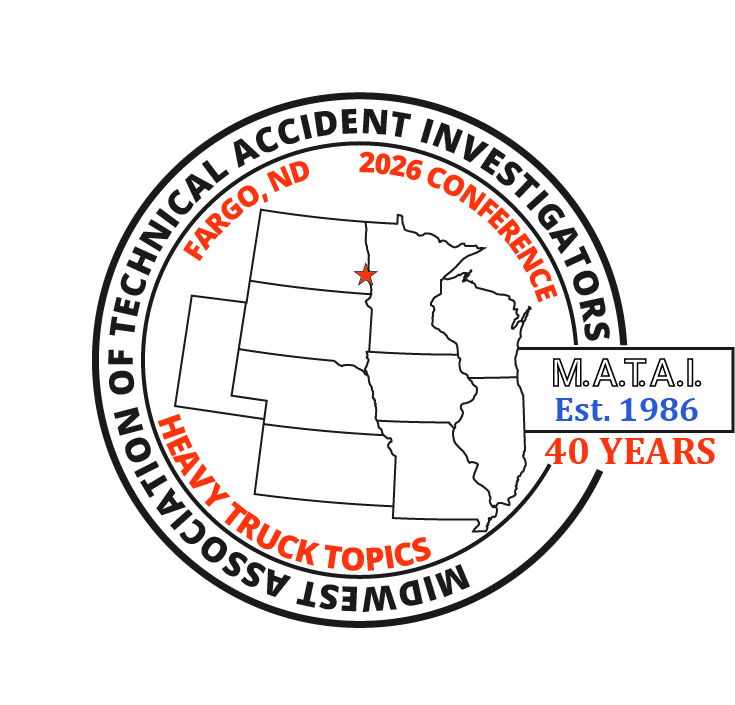
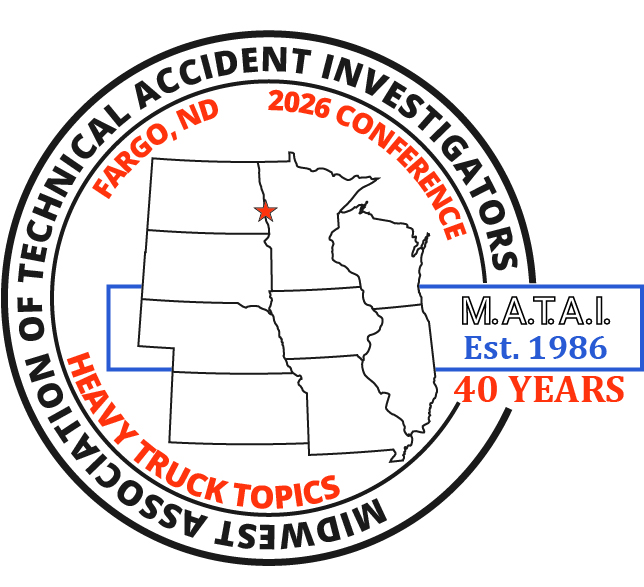
dec conf updates - graphics updates

Changed region(s): [[0.0, 0.0307, 1.0, 0.9813], [0.559, 0.4293, 0.5901, 0.46]]

diff --git a/src/pages/Index.vue b/src/pages/Index.vue
@@ -42,23 +42,34 @@
             <!-- upcoming events here -->
 
             <!-- 2026 Conference - 40 year anniversary -->
-              <q-card class="flex justify-center q-pa-md my-card shadow-2 rounded-borders">
+              <q-card class="justify-center q-pa-md my-card shadow-2 rounded-borders">
                 <div class="flex row">
-                  <q-card-section class="col-6 gt-xs">
+                  <q-card-section class="col-sm-6 col-xs-12">
                     <img style="width: 100%" class="q-pa-sm" src="../assets/Conf_40@2x.png">
-                    <img style="width: 100%" class="q-pa-sm" src="../assets/40th_v1@2x.png">
-                    <img style="width: 100%" class="q-pa-sm" src="../assets/nodak_sp.png">
+                    <q-card-section class="gt-xs">
+                      <img style="width: 100%" class="q-pa-sm" src="../assets/40th_v2@2x.png">
+                      <img style="width: 100%" class="q-pa-sm" src="../assets/nodak_sp.png">
+                    </q-card-section>
                   </q-card-section>
-                  <q-card-section class="col-xs-12 col-sm-6">
-                    <div class="text-h5 text-bold text-red-10">2026 MATAI CONFERENCE</div>
+                  <q-card-section class="col-sm-6">
+                    <div class="text-h4 text-bold text-red-10">2026 MATAI CONFERENCE</div>
                     <div class="text-h6">Hosted by:</div>
                     <div class="text-h4">North Dakota State Patrol</div>
+                    <hr>
                     <div class="text-h3">Fargo, North Dakota</div>
                     <div class="text-h2 text-bold">MATAI 40th</div>
                     <div class="text-h4 text-bold">June 8 - 10, 2026</div>
                     <div class="text-h3 q-mb-md ">Heavy Truck Topics</div>
-                    <div class="text-h6">Tentative Topics (to be finalized soon!)</div>
-                    <div class="text-h6"><span class="text-red-10 text-bold">LIVE CRASH TESTING - HEAVY TRUCK UNDERRIDE EVENTS/ROTATIONAL ANALYSIS</span></div>
+                    <hr>
+                    <div class="text-h6">Tentative Topics and CONFIRMED INSTRUCTORS</div>
+                    <br>
+                    <div class="text-h4"><span class="text-red-10 text-bold">LIVE CRASH TESTING</span></div>
+                    <div class="text-h5"><span class="text-red-10 text-bold">HEAVY TRUCK | UNDERRIDE EVENTS | ROTATIONAL ANALYSIS</span></div>
+                    <br>
+                    <div class="text-h6">ROTATIONAL MECHANICS (TRAILER SIDE IMPACTS) - <span class="text-red-10">JOHN DAILY</span></div>
+                    <div class="text-h6">RELATED HUMAN FACTORS TOPICS - <span class="text-red-10">WILLIAM MESSERSCHMIDT</span></div>
+                    <div class="text-h6">CALCULATING SPEEDS IN UNDERRIDES - <span class="text-red-10">SCOTT SKINNER</span></div>
+                    <div class="text-h6">LIVE CRASH TEST DATA REVIEW - <span class="text-red-10">HALLMAN CRASH TEAM</span></div>
                     <div class="text-h6">HEAVY TRUCK SCENE EVIDENCE</div>
                     <div class="text-h6">FEDERAL REGULATIONS</div>
                     <div class="text-h6">HVEDR / DASH CAMS / GPS</div>
@@ -66,22 +77,23 @@
                     <div class="text-h6">HEAVY TRUCK POST-CRASH INSPECTIONS (HANDS-ON)</div>
                     <div class="text-h6">HEAVY TRUCK BRAKING SYSTEMS (OVERVIEW)</div>
                     <div class="text-h6">HEAVY TRUCK BRAKING EFFICIENCY CALCULATIONS</div>
-                    <div class="text-h6">ROTATIONAL MECHANICS (TRAILER SIDE IMPACTS) - <span class="text-red-10">JOHN DAILY</span></div>
-                    <div class="text-h6">CALCULATING SPEEDS IN UNDERRIDES - <span class="text-red-10">SCOTT SKINNER</span></div>
-                    <div class="text-h6">LIVE CRASH TEST DATA REVIEW - <span class="text-red-10">HALLMAN CRASH TEAM</span></div>
-
-                    <br>
                     <!-- <div class="text-h4 text-bold text-red"></div> -->
                     <br>
-                    <!-- <div class="text-h5 text-bold">$500/ MEMBERS $550/ Non-members</div> -->
+                    <div class="text-h6 text-bold">$500/ MEMBERS $600/ Non-members</div>
+                    <div class="text-h5 text-orange-10 text-bold">Late Registration - After April 15</div>
+                    <div class="text-h6 text-bold">$500/ MEMBERS $650/ Non-members</div>
+                    <div class="text-h6">Breakfast and Lunch Provided - M - W</div>
                     <br>
+                    <div class="text-h3 text bold"><span class="text-bold">ACTAR</span><span class="text-bold text-grey-6">EXAM</span></div>
+                    <div class="text-h5">June 7, 2026</div>
+
                     <q-card-section>
                       <q-btn
                         unelevated
                         to="/"
                         class="q-py-xs q-px-sm q-ml-sm text-black"
                         color="grey"
-                        label="conf details coming soon!"
+                        label="conf registration coming soon!"
                         size="lg"
                       />
                     </q-card-section>
